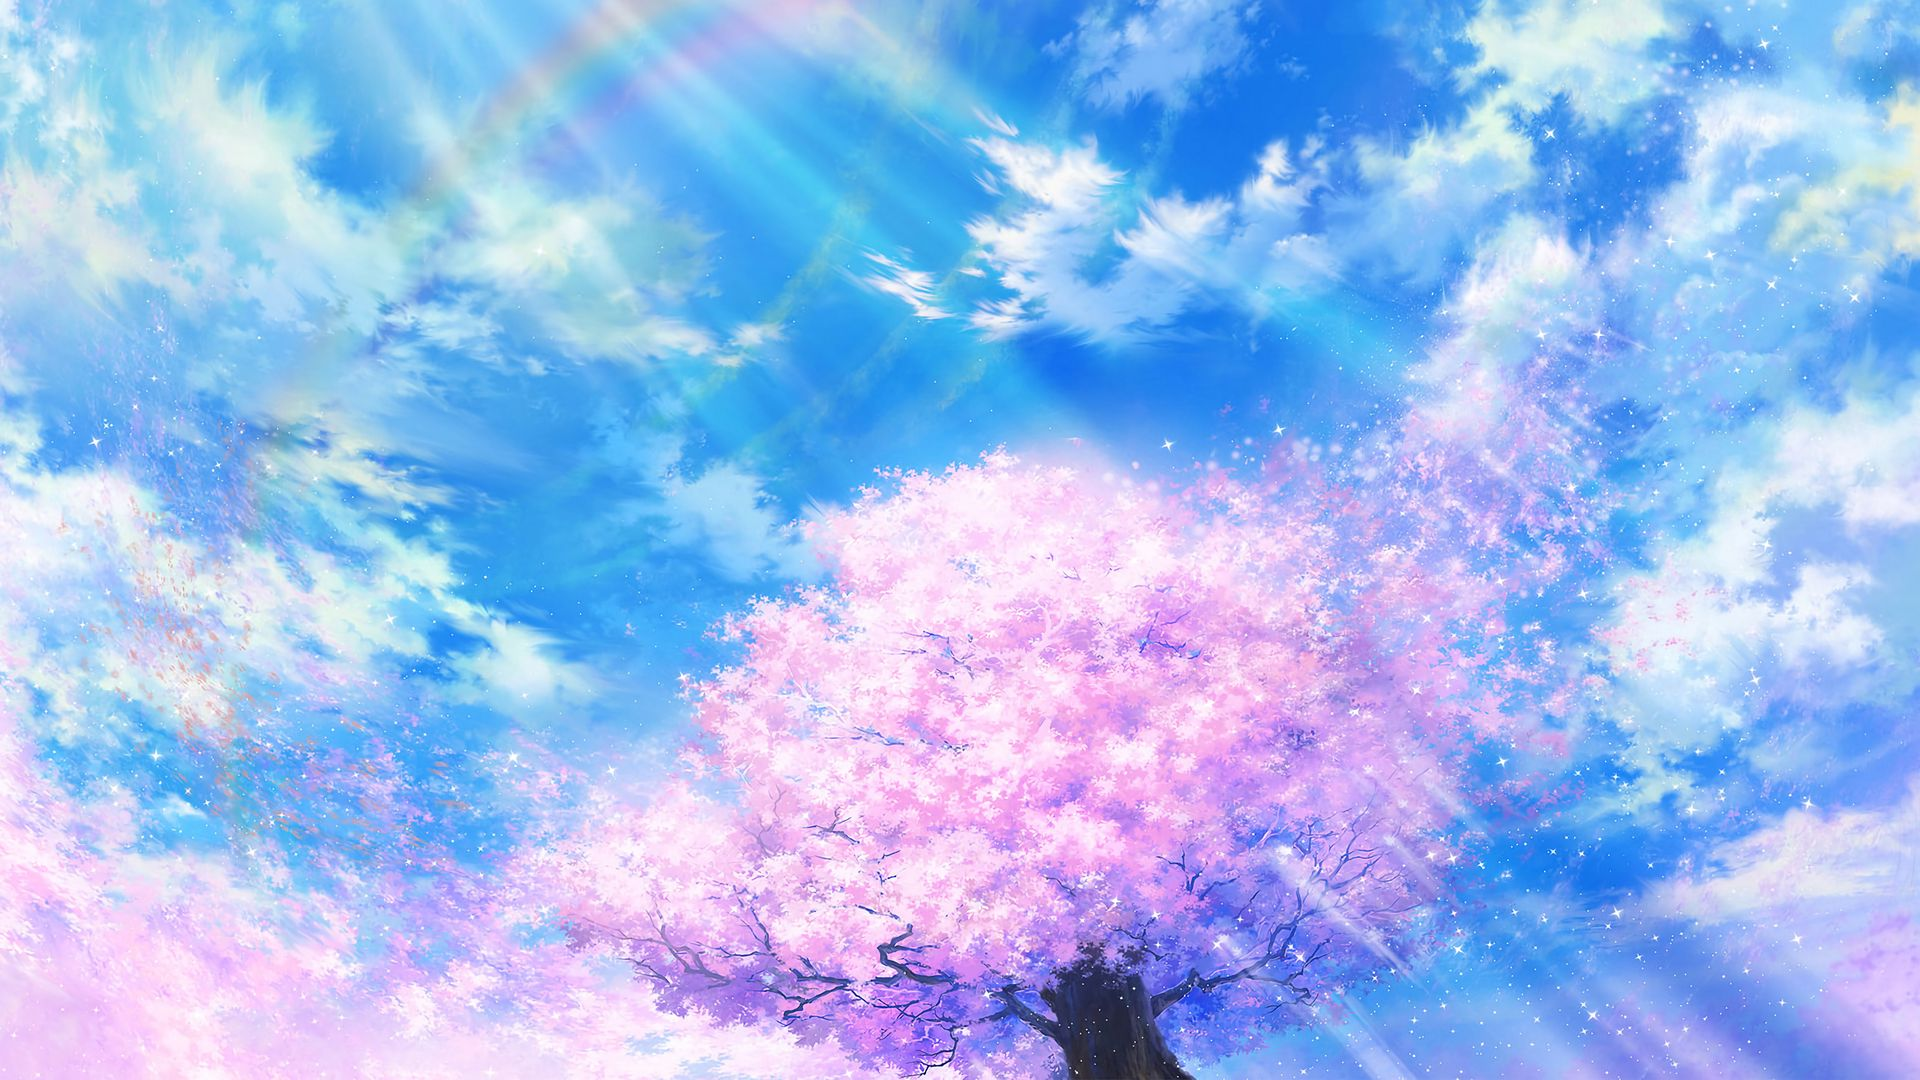
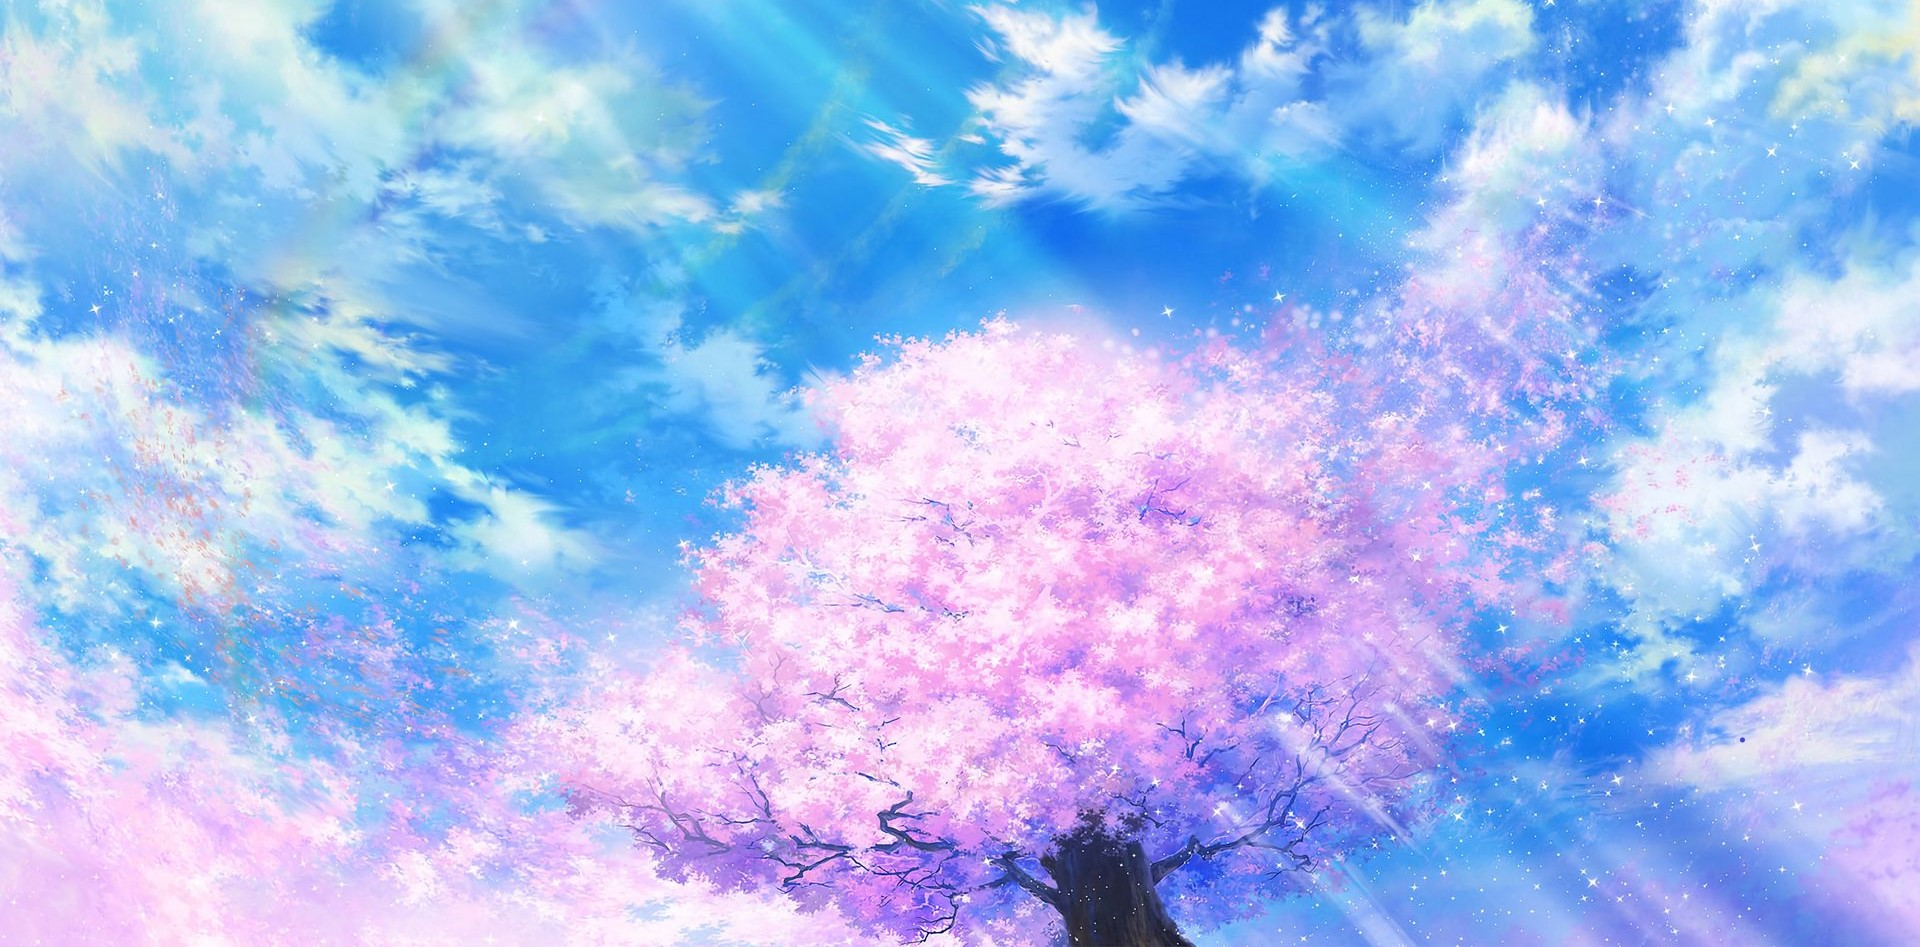
Адаптивный дизайн

diff --git a/templates/index.html b/templates/index.html
@@ -2,6 +2,7 @@
 <html lang="ru">
 <head>
     <meta charset="UTF-8">
+    <meta name="viewport" content="width=device-width, initial-scale=1">
     <title>RSA</title>
     <link rel="shortcut icon" href="{{ url_for('static', filename='favicon.ico') }}">
 
@@ -22,21 +23,21 @@
         <h2>Генерация ключей</h2>
         <form method="POST" id="key_generation_form" action="">
             <div class="row">
-                <div class="col-sm-6">
+                <div class="col-md-6">
                     <div class="form-group">
-                        <label for="">Введите номер по списку</label>
+                        <label>Введите номер по списку</label>
                         <input type="number" min="1" max="25" class="form-control" name="number">
                     </div>
                 </div>
-                <div class="col-sm-6">
+                <div class="col-md-6">
                     <div class="form-group">
-                        <label for="">Введите фамилию</label>
+                        <label>Введите фамилию</label>
                         <input type="text" class="form-control" name="last_name">
                     </div>
                 </div>
             </div>
             <div id="result_of_generation"></div>
-            <button type="submit" class="btn btn-primary" id="generate_btn">Сгенерировать ключи</button>
+            <button type="submit" class="btn btn-primary center" id="generate_btn">Сгенерировать ключи</button>
         </form>
     </div>
 
@@ -47,26 +48,26 @@
 
     <div class="row">
         <!--Шифрование/дешифрование-->
-        <div class="col-sm-6">
+        <div class="col-md-6">
             <div class="encrypt">
                 <h2>Кодирование</h2>
                 <form method="POST" id="encrypt_form" action="">
 
                     <div class="form-group">
-                        <label for="">Введите слово для шифрования</label>
+                        <label>Введите слово для шифрования</label>
                         <input type="text" class="form-control" name="data">
                     </div>
                     <p>Введите открытый ключ</p>
                     <div class="row">
-                        <div class="col-sm-6">
+                        <div class="col-md-6">
                             <div class="form-group">
-                                <label for="">Введите e</label>
+                                <label>Введите e</label>
                                 <input type="text" class="form-control" name="e">
                             </div>
                         </div>
-                        <div class="col-sm-6">
+                        <div class="col-md-6">
                             <div class="form-group">
-                                <label for="">Введите n</label>
+                                <label>Введите n</label>
                                 <input type="text" class="form-control" name="n">
                             </div>
                         </div>
@@ -78,26 +79,26 @@
             </div>
         </div>
 
-        <div class="col-sm-6">
+        <div class="col-md-6">
             <div class="decrypt">
                 <h2>Декодирование</h2>
                 <form method="POST" id="decrypt_form" action="">
 
                     <div class="form-group">
-                        <label for="">Введите закодированную последовательность через запятую</label>
+                        <label>Введите закодированную последовательность через запятую</label>
                         <input type="text" class="form-control" name="data">
                     </div>
                     <p>Введите секретный ключ</p>
                     <div class="row">
-                        <div class="col-sm-6">
+                        <div class="col-md-6">
                             <div class="form-group">
-                                <label for="">Введите d</label>
+                                <label>Введите d</label>
                                 <input type="text" class="form-control" name="d">
                             </div>
                         </div>
-                        <div class="col-sm-6">
+                        <div class="col-md-6">
                             <div class="form-group">
-                                <label for="">Введите n</label>
+                                <label>Введите n</label>
                                 <input type="text" class="form-control" name="n">
                             </div>
                         </div>

diff --git a/static/css/style.css b/static/css/style.css
@@ -1,3 +1,7 @@
-body{
-    background: url("/static/img/background.jpg");
+body {
+    background: url("/static/img/background.jpg") no-repeat center center fixed;
+    -webkit-background-size: cover;
+    -moz-background-size: cover;
+    -o-background-size: cover;
+    background-size: cover;
 }
